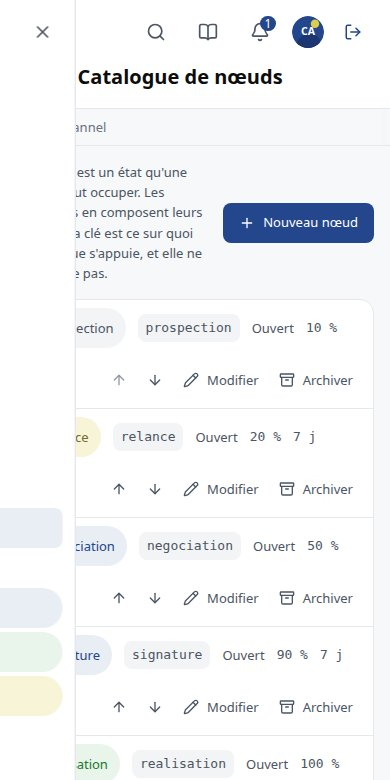
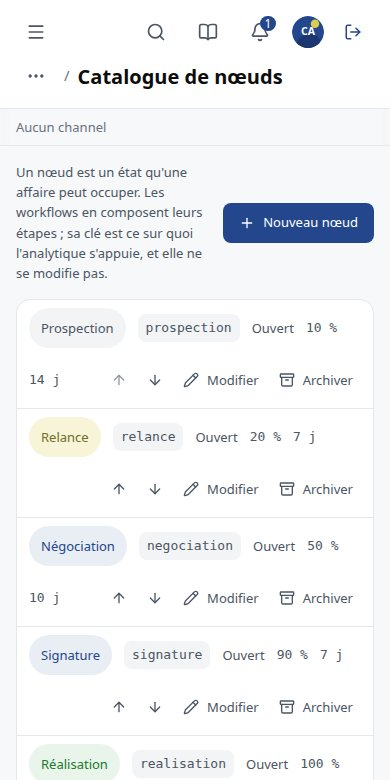
INC-337 close : rien ne défile (sonde : main et document à scrollLeft 0 aux quatre paliers) — le décalage du catalogue était le tiroir de la barre latérale en fermeture ; le scénario attend le tiroir refermé sous 1024 px, captures catalogue-liste sm-390 et md-900 renouvelées et observées ; la corbei

diff --git a/e2e/ui/administration-catalogue.spec.ts b/e2e/ui/administration-catalogue.spec.ts
@@ -1,3 +1,4 @@
+// @verifies INC-337 (docs/INCONSISTENCY_REPORT.md) — la capture attend le tiroir refermé sous 1024 px
 // @verifies CRM-030 (docs/BACKLOG.md) — administration du catalogue de nœuds, parcours d'interface
 // @verifies docs/SPEC-workflow-engine.md §2 bis.2 (l'adresse et l'index), §2 bis.3 (la lecture
 //           rapporte AUSSI les archivés), §2 bis.4 (les quatre gestes), §2 bis.5 (les refus
@@ -153,6 +154,11 @@ test.describe('Administration du catalogue de nœuds — CRM-030', () => {
 
 		for (const palier of PALIERS) {
 			await page.setViewportSize({ width: palier.largeur, height: palier.hauteur })
+			// INC-337 : sous 1024 px, la barre latérale devient un tiroir qui se referme par une transition ; capturée trop
+			// tôt, elle recouvre le bord gauche et la page paraît décalée. La capture attend sa position finale.
+			if (palier.largeur < 1024) {
+				await expect.poll(async () => (await page.getByTestId('barre-laterale').boundingBox())?.x ?? 0).toBeLessThan(-200)
+			}
 			await capturer(page, `catalogue-liste-${palier.nom}`, UNITE)
 		}
 	})

diff --git a/docs/INCONSISTENCY_REPORT.md b/docs/INCONSISTENCY_REPORT.md
@@ -8565,6 +8565,15 @@ sans objet.
 tourner, le serveur d'interface étant occupé par une autre campagne. Alors seulement décider si `main` déborde (défaut du
 produit, `docs/DESIGN_SYSTEM.md` §7) ou si seul le scénario garde un défilement d'une taille précédente.
 
+**Close le 2026-11-03.** La sonde a tourné : `main`, le document et chaque élément sont à `scrollLeft = 0` aux quatre
+paliers. **Rien ne défile** ; ce n'est donc pas un défaut du produit. Le décalage apparent du catalogue est le **tiroir
+de la barre latérale en cours de fermeture** : il recouvre le bord gauche, c'est le motif d'INC-336. Le scénario attend
+désormais le tiroir refermé sous 1024 px, et `CRM-030/catalogue-liste-sm-390` et `md-900` sont renouvelées et
+observées : la page commence au bord, le tiroir est fermé.
+
+`CRM-060/fiche-contact-detachement-390` est, comme la corbeille, le **conteneur du tableau** qui défile après le clic
+sur « Détacher », au bout de la ligne (`docs/DESIGN_SYSTEM.md` §12.6) : ce n'est pas un défaut.
+
 ### INC-338 — La cible 3/6 de `CRM-013` attend `api_tokens.token_hash` de `CRM-073`, qui a livré des webhooks sans jeton d'API
 
 *Constaté le 2026-11-01 en relisant les entrées ouvertes de `CRM-013`.* La garde des colonnes protégées compte six cibles.
